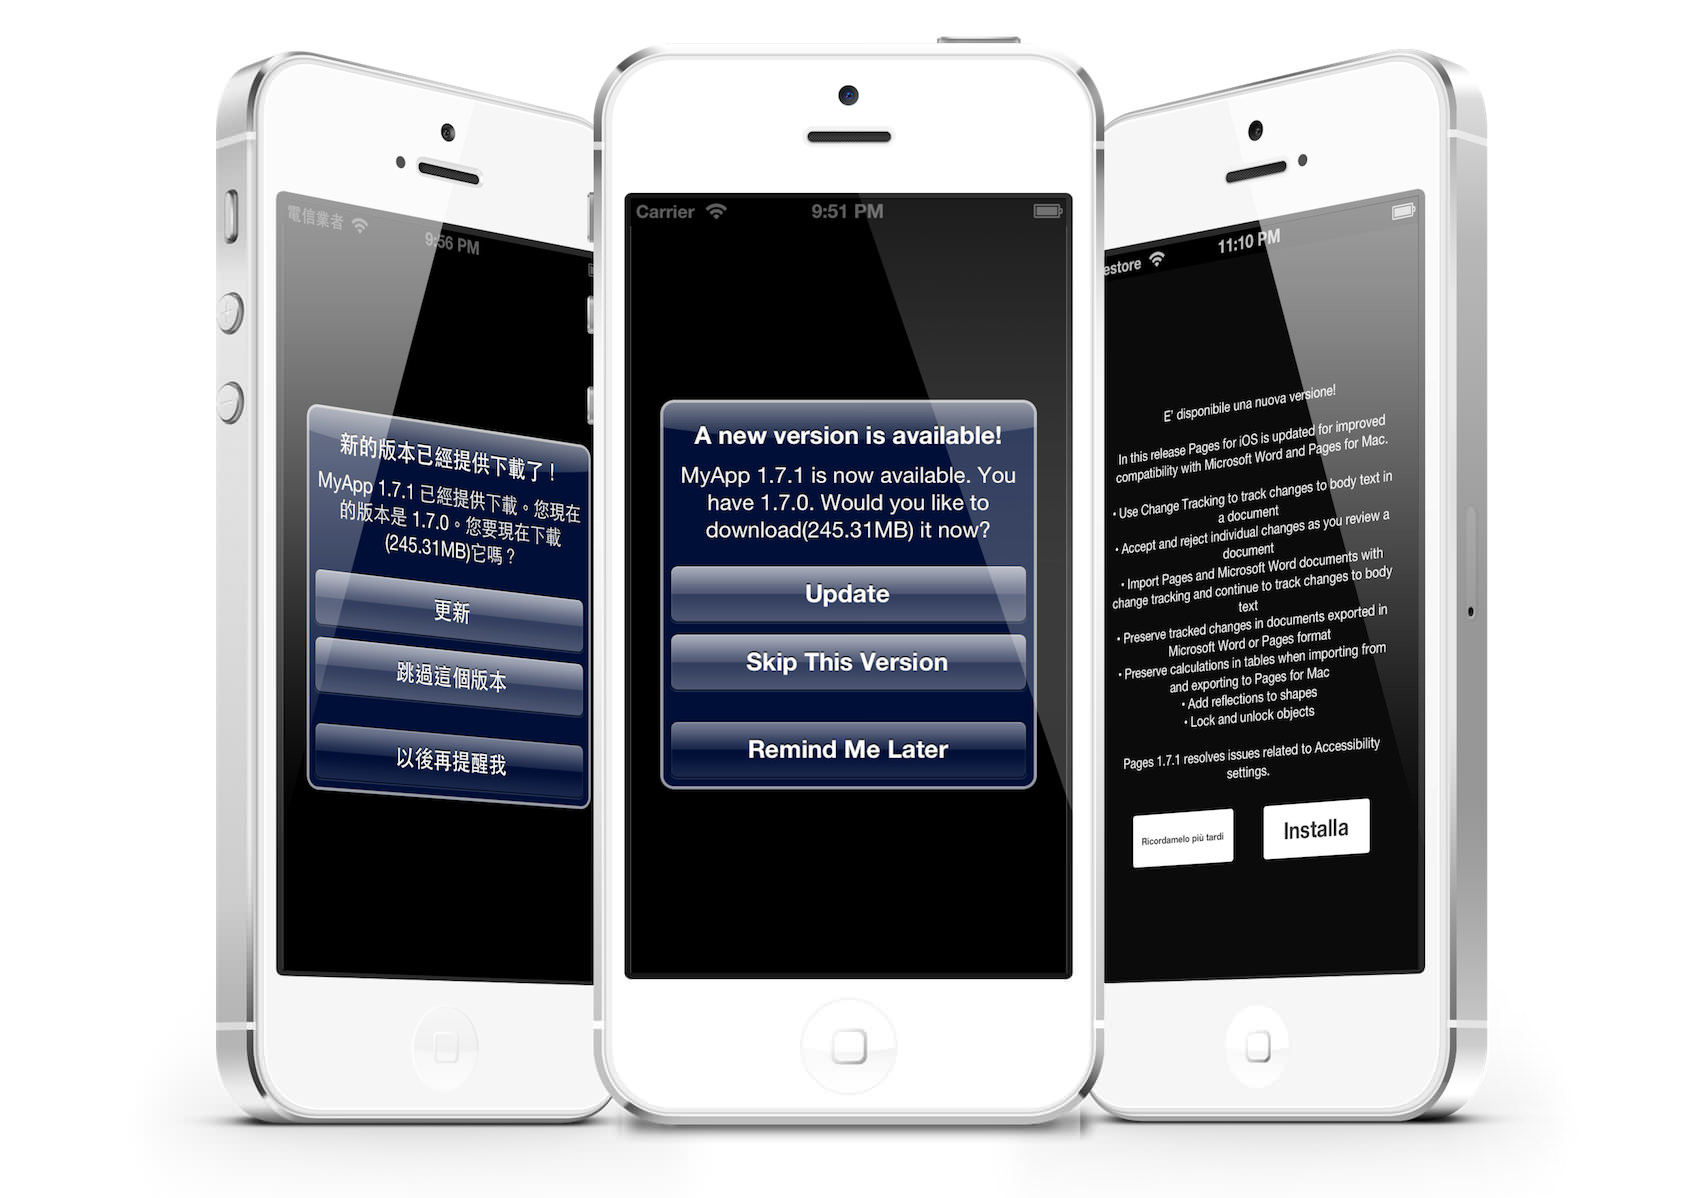
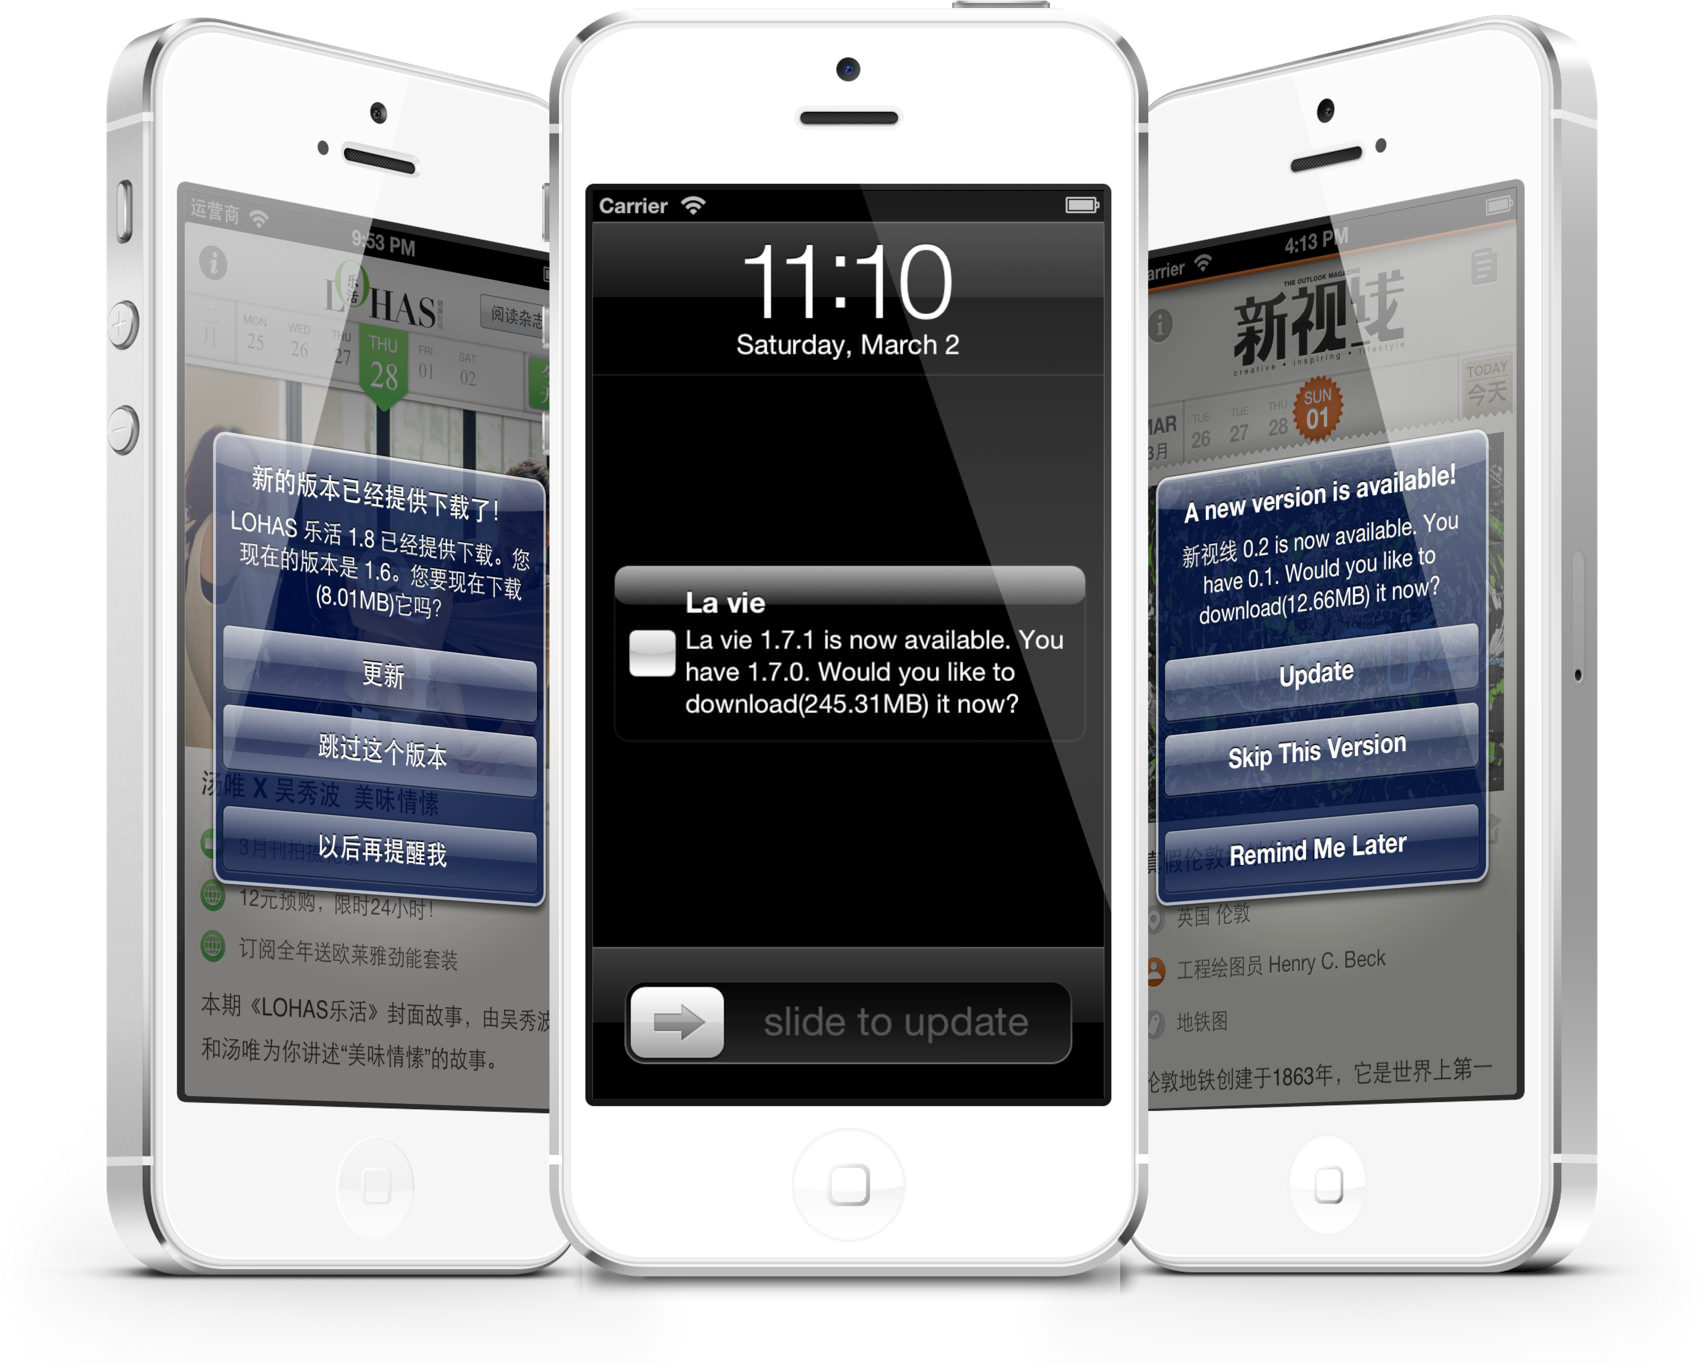
Update README and screenshots.

diff --git a/LTUpdate Demo/LTUpdate Demo/LTAppDelegate.m b/LTUpdate Demo/LTUpdate Demo/LTAppDelegate.m
@@ -30,7 +30,7 @@
 
 - (void)applicationDidBecomeActive:(UIApplication *)application
 {
-////    [[LTUpdate shared] updateAndPush:LTUpdateDaily];
+//    [[LTUpdate shared] updateAndPush:LTUpdateDaily]; return;
     
     [[LTUpdate shared] update:LTUpdateHourly
                      complete:^(BOOL isNewVersionAvailable, LTUpdateVersionDetails *versionDetails) {
@@ -63,7 +63,7 @@
 
 - (void)application:(UIApplication *)application didReceiveLocalNotification:(UILocalNotification *)notification
 {
-////    [[LTUpdate shared] reduceNotification:notification then:LTUpdateNotifyThenAlert];
+//    [[LTUpdate shared] reduceNotification:notification then:LTUpdateNotifyThenAlert];
 }
 
 @end

diff --git a/LTUpdate/LTUpdate.m b/LTUpdate/LTUpdate.m
@@ -366,6 +366,11 @@ static long _appStoreID;
     [[UIApplication sharedApplication] scheduleLocalNotification:notification];
 }
 
+- (void)__attribute__((unused)) reduceNotification:(UILocalNotification*)notification
+{
+    [self reduceNotification:notification then:LTUpdateNotifyOpenAppStore];
+}
+
 - (void)reduceNotification:(UILocalNotification *)notification then:(LTUpdateNotifyActions)action
 {
     if ([notification.alertAction isEqualToString:LTI18N(@"Update")]) {

diff --git a/README.md b/README.md
@@ -3,6 +3,7 @@ LeT's Update to the new version available in the AppStore!
 ![Screenshot](https://raw.github.com/lexrus/LTUpdate/master/LTUpdate%20Demo/Screenshot_Multilingual.jpg)
 
 ## Features
+* Local Notifications — from 0.0.2.
 * Customizable callback. You can prompt the new version with your favorite view class.
 * Multilingual. 25 languages included in version 0.0.1.
 * Update period control. Daily/Weekly/Monthly
@@ -24,18 +25,39 @@ It's compatible with both ARC and MRC. But MRC mode is not well tested yet.
 
 ### DnD or pod install
 - Download the zip file and unzip it. Drag & drop LTUpdate/LTUpdate folder to your project.
-Or install with [CocoaPods](https://github.com/CocoaPods/CocoaPods): ```pod 'LTUpdate', '~>0.0.1'```
+- But I prefer [CocoaPods](https://github.com/CocoaPods/CocoaPods): ```pod 'LTUpdate', '~>0.0.2'```
 
-- Add a NSNumber field to {{YourAppName}}-Info.plist with key “APP_STORE_ID” and your App ID as value:
+### Define the App ID
+- Add a NSNumber field to {{YourProjectName}}-Info.plist with key “APP_STORE_ID” and your App ID as value:
 ![Screenshot](https://raw.github.com/lexrus/LTUpdate/master/LTUpdate%20Demo/Screenshot_APP_STORE_ID.png)
 
-- After that, add ```#import "LTUpdate.h"``` to AppDelegate.m.
+### Import the header
+- After that, add ```#import "LTUpdate.h"``` to AppDelegate.m or {{YourProjectName}}-Prefix.pch.
 
+### Prompt with UIAlertView
 - Invoke the update method in applicationDidBecomeActive: ```[[LTUpdate shared] update];```
 LTUpdate will check new verison from iTunes API. And prompt the user to update if there is a new version available.
 
-### Customize
+### Prompt with Notification
+Users may be disturbed by UIAlertView while they supposed to use the app. Some of them installed your app but never open it till the new version has been promoted. Notifications is a better choice. Here is the simple way:
 
+```
+- (void)applicationDidBecomeActive:(UIApplication *)application
+{
+    [[LTUpdate shared] updateAndPush:LTUpdateDaily];
+}
+
+- (void)application:(UIApplication *)application didReceiveLocalNotification:(UILocalNotification *)notification
+{
+    [[LTUpdate shared] reduceNotification:notification then:LTUpdateNotifyThenAlert];
+}
+```
+While your app become inactived, it would send a notification to notify the user to update.
+![Screenshot](https://raw.github.com/lexrus/LTUpdate/master/LTUpdate%20Demo/Screenshot_Notification.jpg)
+If the user tap/swiped this notification, the action would be invoked. In this case, the app will show a alert to make confirm of update. Or it’s quite nifty to open AppStore directly with
+```[[LTUpdate shared] reduceNotification:notification];```
+
+### Customize
 If you need more control:
 
 ```
